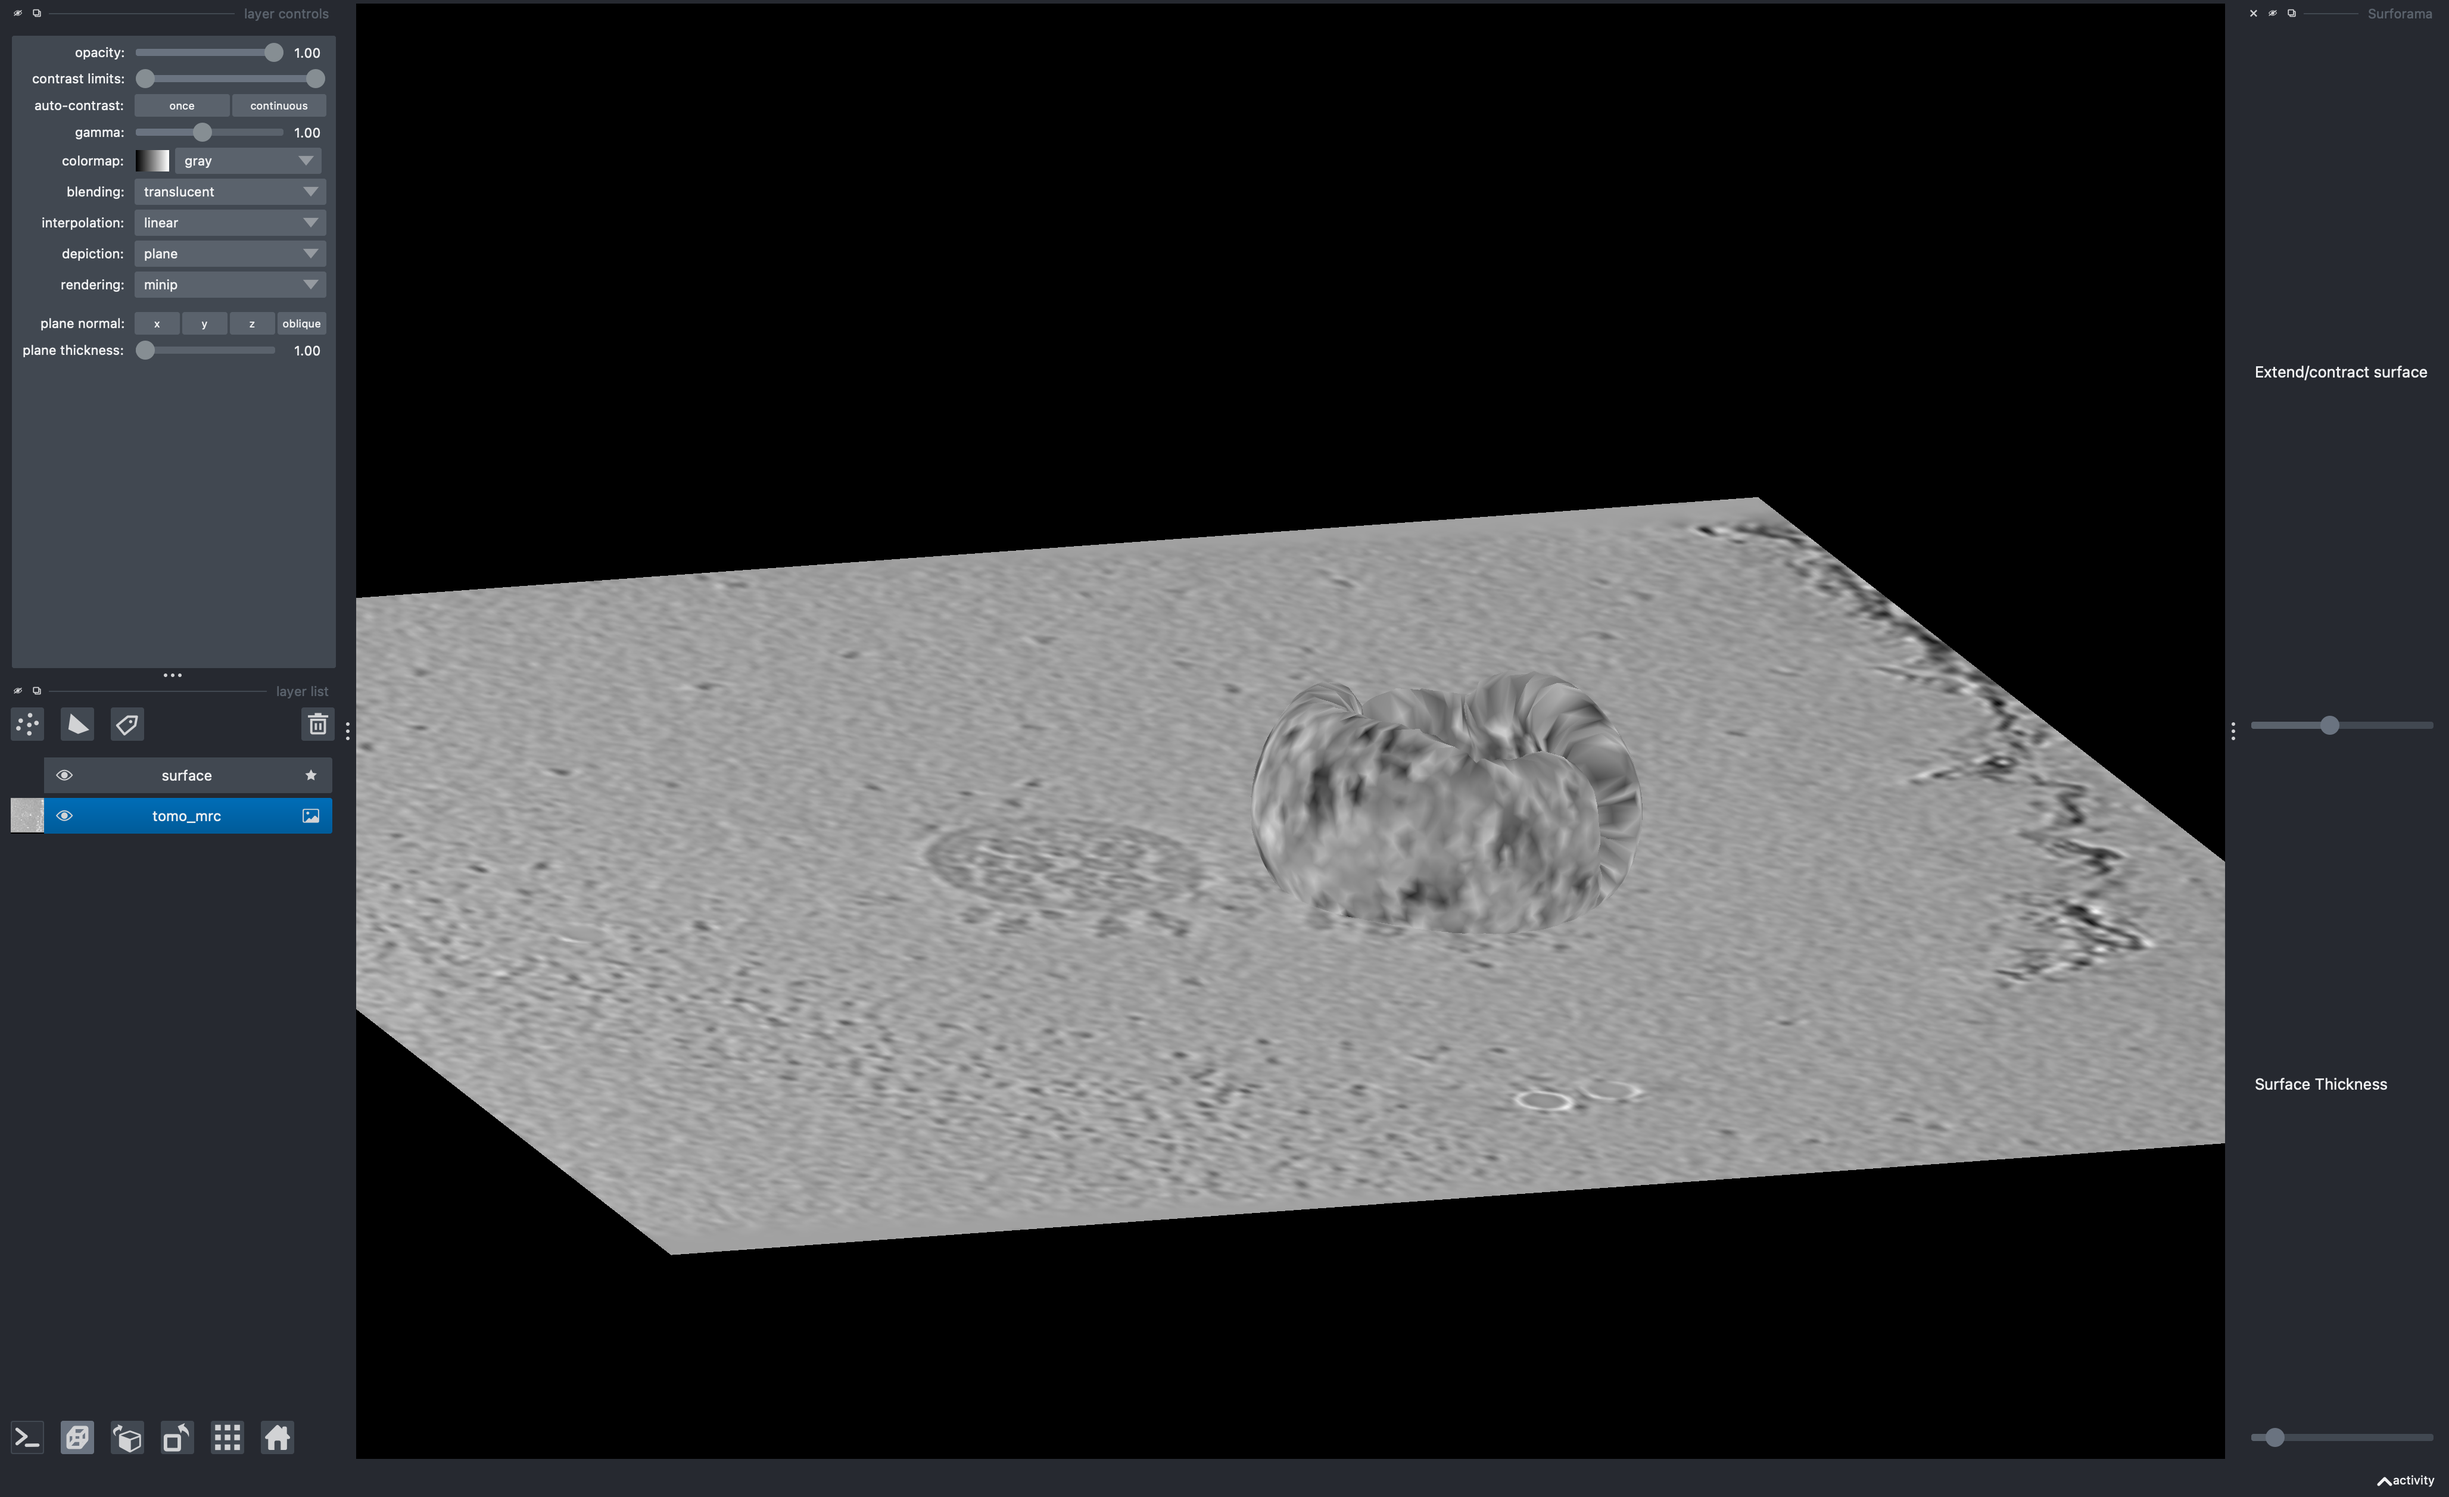
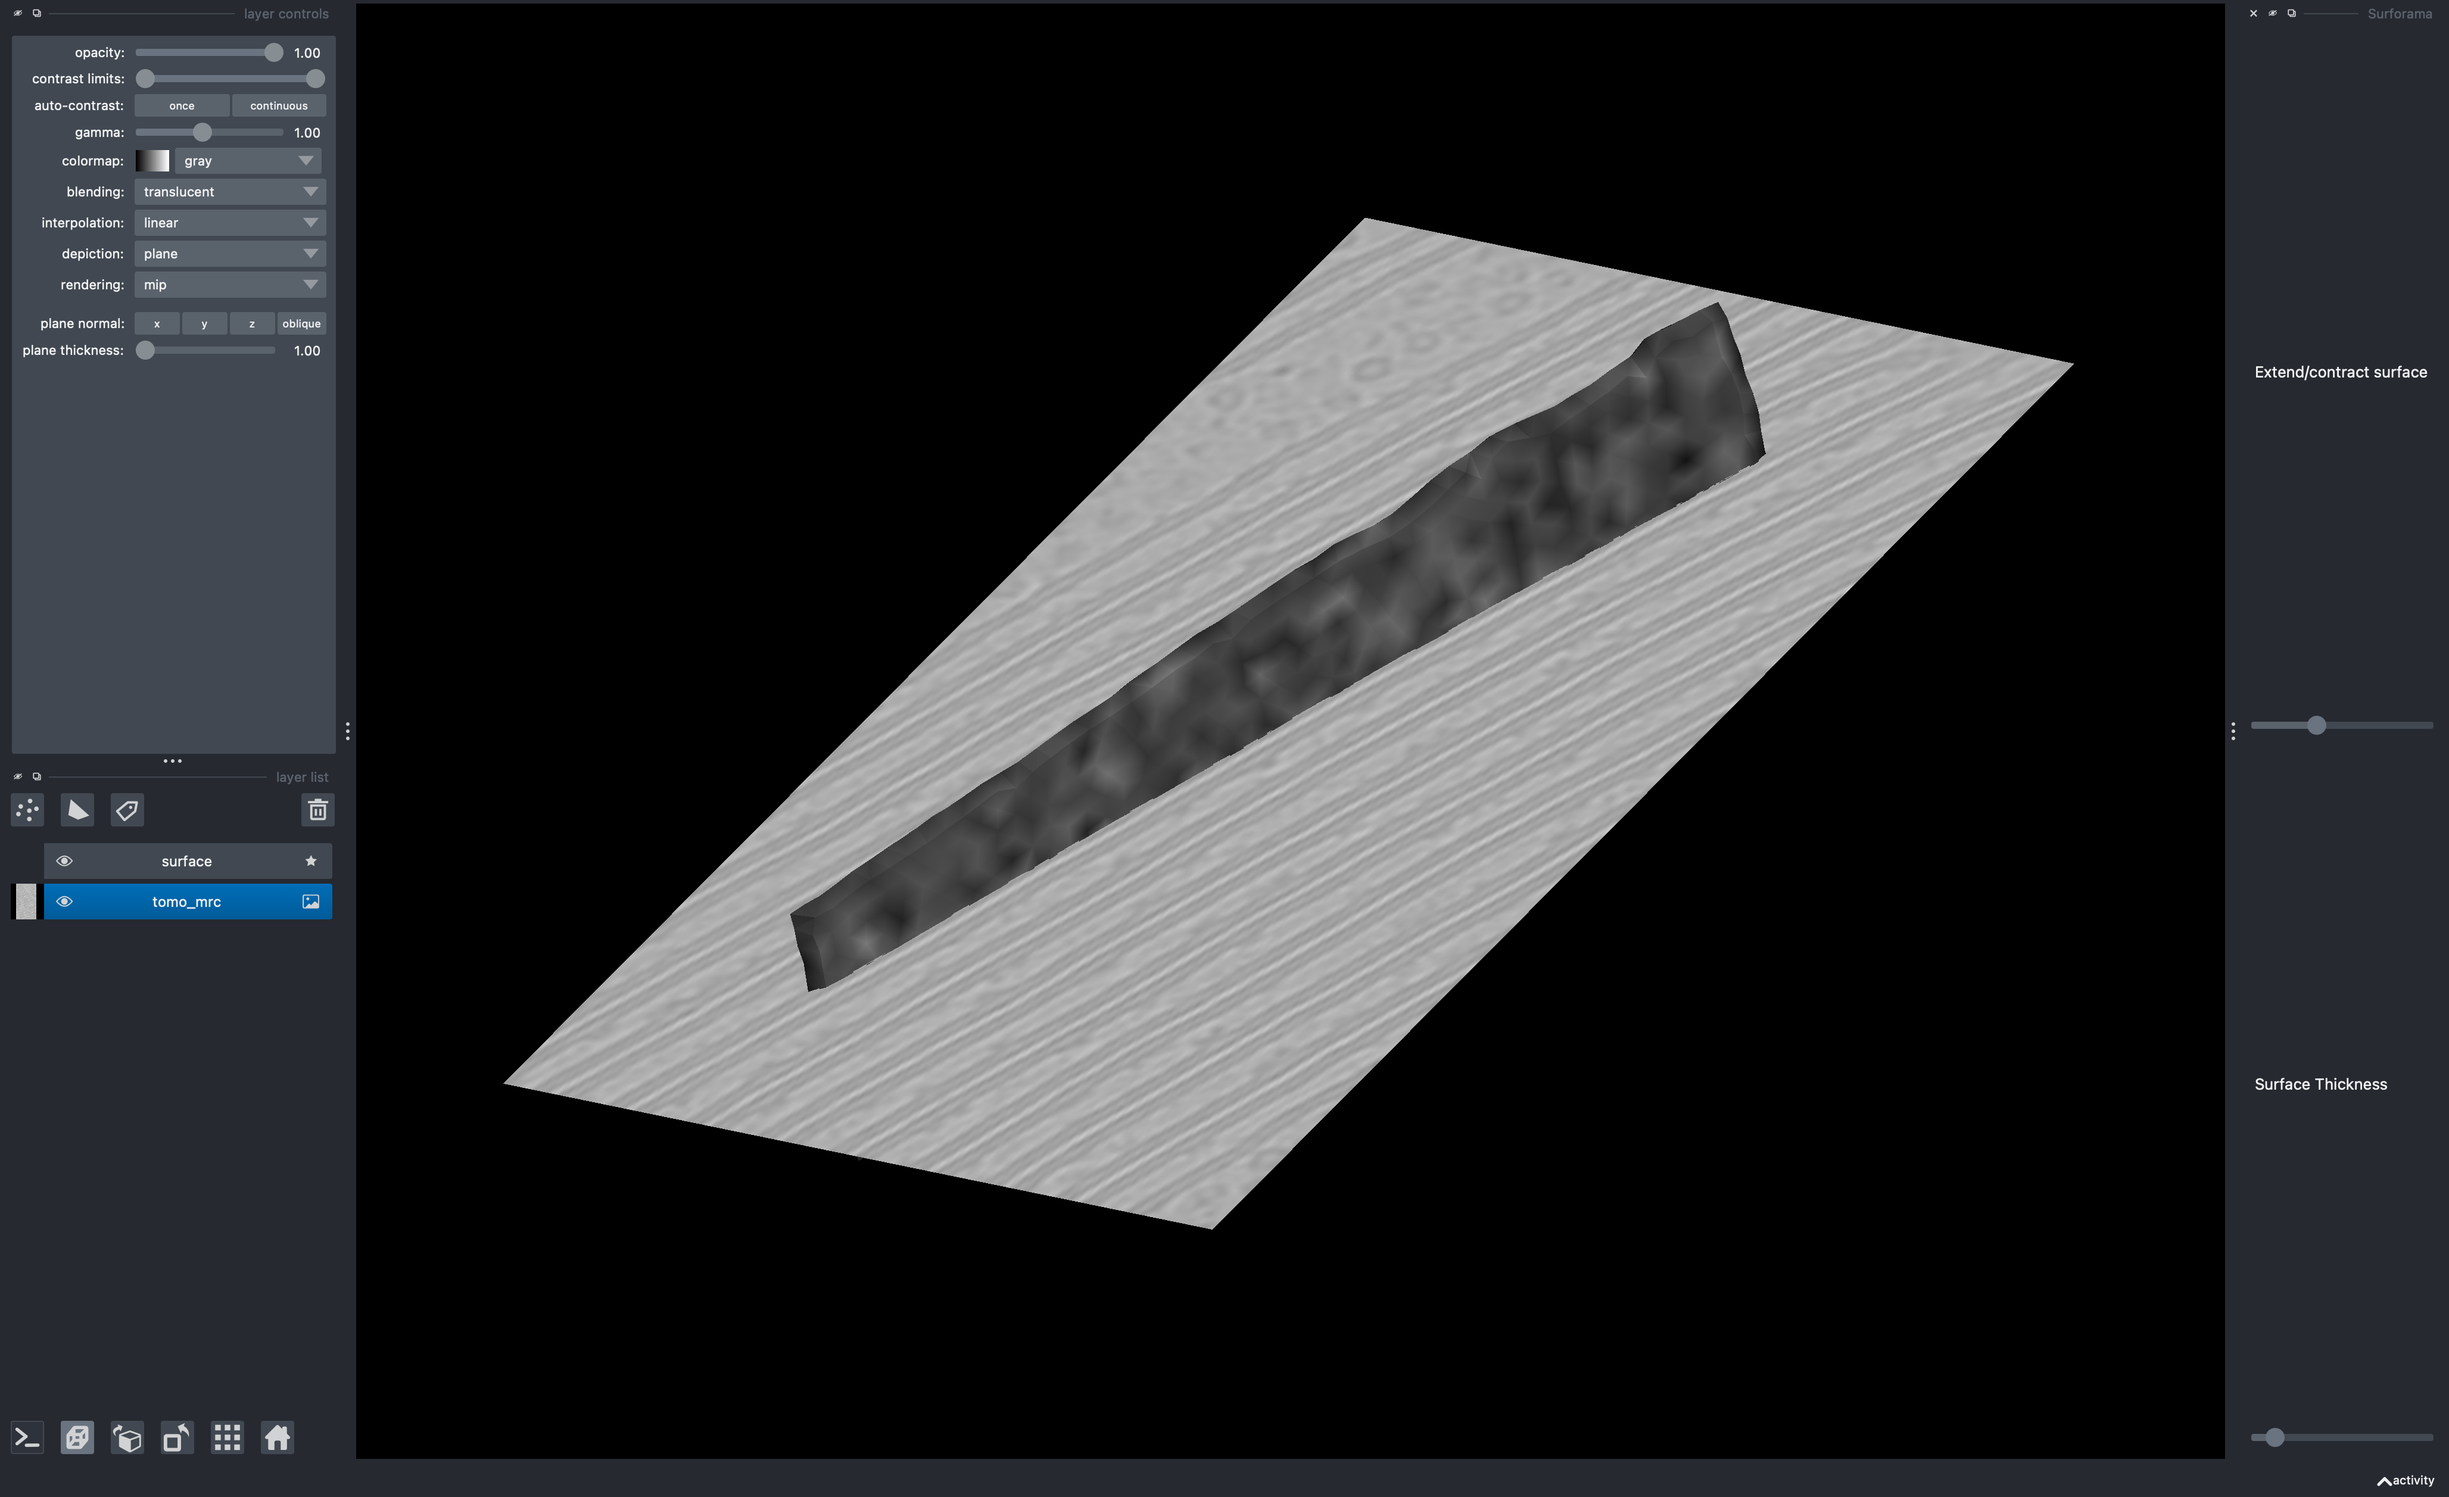
Add necessary project files

Changed region(s): [[0.0, 0.1241, 0.9339, 0.8377], [0.9339, 0.4654, 0.965, 0.4964]]

diff --git a/src/surforama/app.py b/src/surforama/app.py
@@ -2,19 +2,23 @@ import numpy as np
 import napari
 import mrcfile
 import trimesh
-# from trimesh.exchange.binvox import voxelize_mesh
-from trimesh.voxel.creation import voxelize_binvox
-# pip install binvox
+
 from qtpy.QtWidgets import QWidget, QVBoxLayout, QSlider, QLabel
 from qtpy.QtCore import Qt
 
 def read_obj_file_and_compute_normals(file_path, scale_factor=1):
     mesh = trimesh.load(file_path, file_type='obj', process=True)
-
+    
     # Subdivide
-    # verts, faces = trimesh.remesh.subdivide_to_size(mesh.vertices, mesh.faces, 1)
+    # verts, faces = trimesh.remesh.subdivide_to_size(mesh.vertices, mesh.faces, 1)    
+
+    # Subdivide can introduce holes
+    # mesh = trimesh.Trimesh(vertices=verts, faces=faces)
+    # trimesh.repair.fill_holes(mesh)
+    
     verts = mesh.vertices
     faces = mesh.faces
+
     verts = verts[:, [2, 1, 0]]
     
     values = np.ones((len(verts),))
@@ -132,37 +136,38 @@ class Surforama(QWidget):
         self.color_values = new_colors
         self.update_mesh()
 
-
-# obj_path = "/Users/kharrington/Data/membranorama/T17S1C3M4.obj"
-# tomo_path = "/Users/kharrington/Data/membranorama/tomo17_load1G5L3_bin4_denoised_ctfcorr_scaled3.rec"
-
-obj_path = "/Users/kharrington/Data/membranorama/TS_004_dose-filt_lp50_bin8_membrain_model.obj"
-tomo_path = "/Users/kharrington/Data/membranorama/TS_004_dose-filt_lp50_bin8.rec"
-
-# obj_path = "/Users/kharrington/Data/membranorama/tomo_17_M10_grow1_1_mesh_data.obj"
-# tomo_path = "/Users/kharrington/Data/membranorama/tomo_17_M10_grow1_1_mesh_data.mrc"
-
-mrc = mrcfile.open(tomo_path)
-tomo_mrc = np.array(mrc.data)
-
-# vertices, faces, values, normals = read_obj_file_and_compute_normals(obj_path, scale_factor=14.08)
-vertices, faces, values = read_obj_file_and_compute_normals(obj_path)
-surface = (vertices, faces, values)
-# print("Vertices:", vertices)
-# print("Faces:", faces)
-
-viewer = napari.Viewer(ndisplay=3)
-
-volume_layer = viewer.add_image(tomo_mrc)
-surface_layer = viewer.add_surface(surface)
-
-# Testing points
-
-point_set = surface[0]
-
-volume_shape = np.array(tomo_mrc.data.shape)
-points_indices = np.round(point_set).astype(int)
         
-# Instantiate the widget and add it to Napari
-surforama_widget = Surforama(viewer, surface_layer, volume_layer)
-viewer.window.add_dock_widget(surforama_widget, area='right', name='Surforama')
+if __name__ == "__main__":
+    # obj_path = "/Users/kharrington/Data/membranorama/T17S1C3M4.obj"
+    # tomo_path = "/Users/kharrington/Data/membranorama/tomo17_load1G5L3_bin4_denoised_ctfcorr_scaled3.rec"
+
+    # obj_path = "/Users/kharrington/Data/membranorama/TS_004_dose-filt_lp50_bin8_membrain_model.obj"
+    # tomo_path = "/Users/kharrington/Data/membranorama/TS_004_dose-filt_lp50_bin8.rec"
+
+    obj_path = "/Users/kharrington/Data/membranorama/tomo_17_M10_grow1_1_mesh_data.obj"
+    tomo_path = "/Users/kharrington/Data/membranorama/tomo_17_M10_grow1_1_mesh_data.mrc"
+
+    mrc = mrcfile.open(tomo_path)
+    tomo_mrc = np.array(mrc.data)
+
+    # vertices, faces, values, normals = read_obj_file_and_compute_normals(obj_path, scale_factor=14.08)
+    vertices, faces, values = read_obj_file_and_compute_normals(obj_path)
+    surface = (vertices, faces, values)
+    # print("Vertices:", vertices)
+    # print("Faces:", faces)
+
+    viewer = napari.Viewer(ndisplay=3)
+
+    volume_layer = viewer.add_image(tomo_mrc)
+    surface_layer = viewer.add_surface(surface)
+
+    # Testing points
+
+    point_set = surface[0]
+
+    volume_shape = np.array(tomo_mrc.data.shape)
+    points_indices = np.round(point_set).astype(int)
+
+    # Instantiate the widget and add it to Napari
+    surforama_widget = Surforama(viewer, surface_layer, volume_layer)
+    viewer.window.add_dock_widget(surforama_widget, area='right', name='Surforama')

diff --git a/src/surforama/_tests/test_widget.py b/src/surforama/_tests/test_widget.py
@@ -1,0 +1,15 @@
+import numpy as np
+
+from surforama._widget import (
+    Surforama,
+)
+
+# capsys is a pytest fixture that captures stdout and stderr output streams
+def test_surforama(make_napari_viewer, capsys):
+    # make viewer and add an image layer using our fixture
+    viewer = make_napari_viewer()
+    image_layer = viewer.add_image(np.random.random((20, 20, 20)))
+    surface_layer = viewer.add_surface((np.random.random((100, 3)) * 20, (np.random.random((100, 3)) * 100).astype(int)))
+
+    # create our widget, passing in the viewer
+    my_widget = Surforama(viewer, surface_layer, image_layer)

diff --git a/src/surforama/__init__.py b/src/surforama/__init__.py
@@ -1,0 +1,6 @@
+__version__ = "0.0.1"
+from .app import Surforama
+
+__all__ = (
+    "Surforama",
+)
